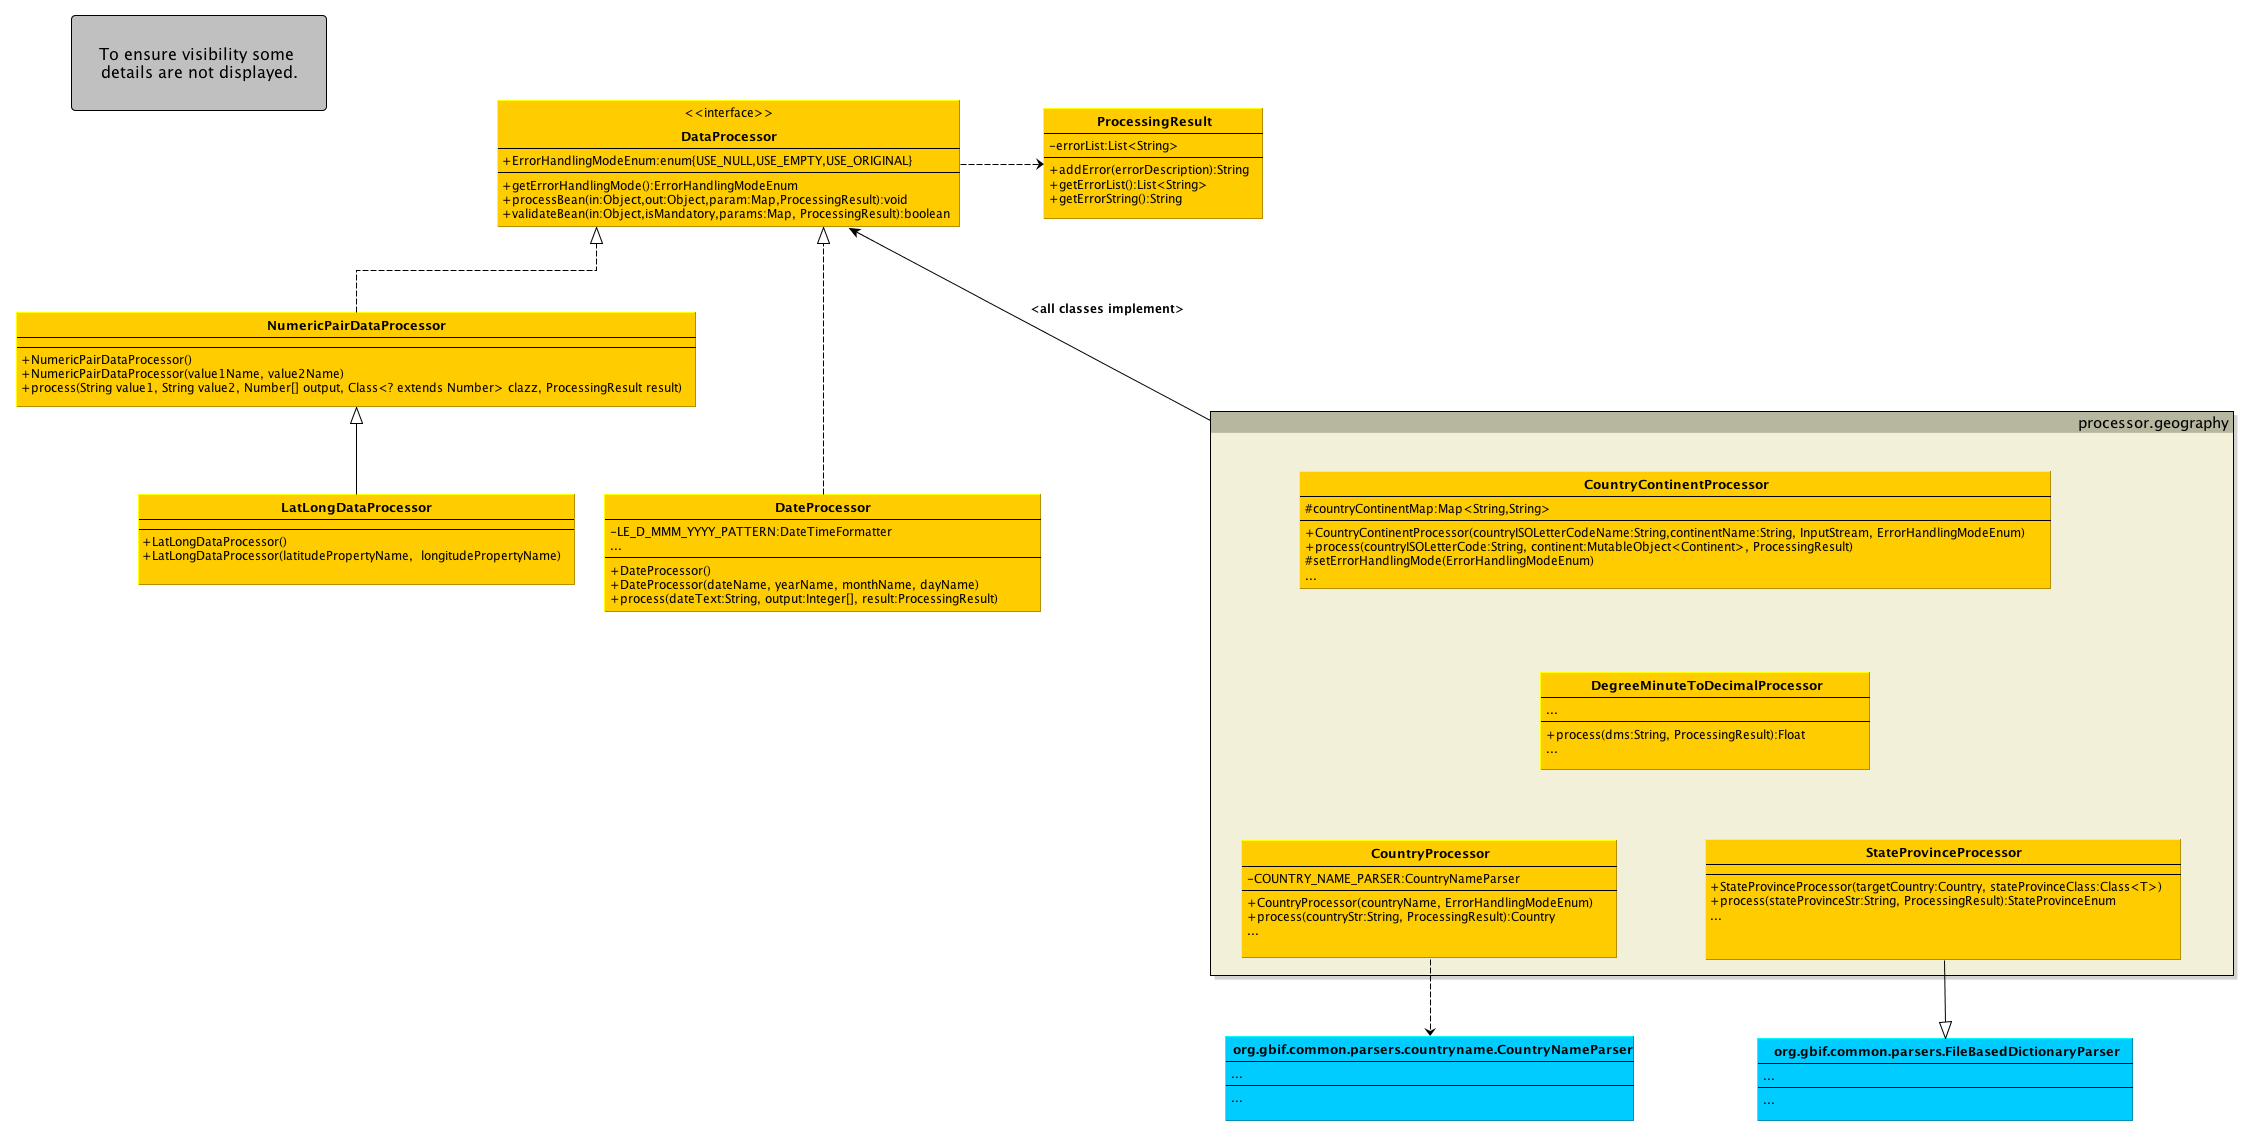
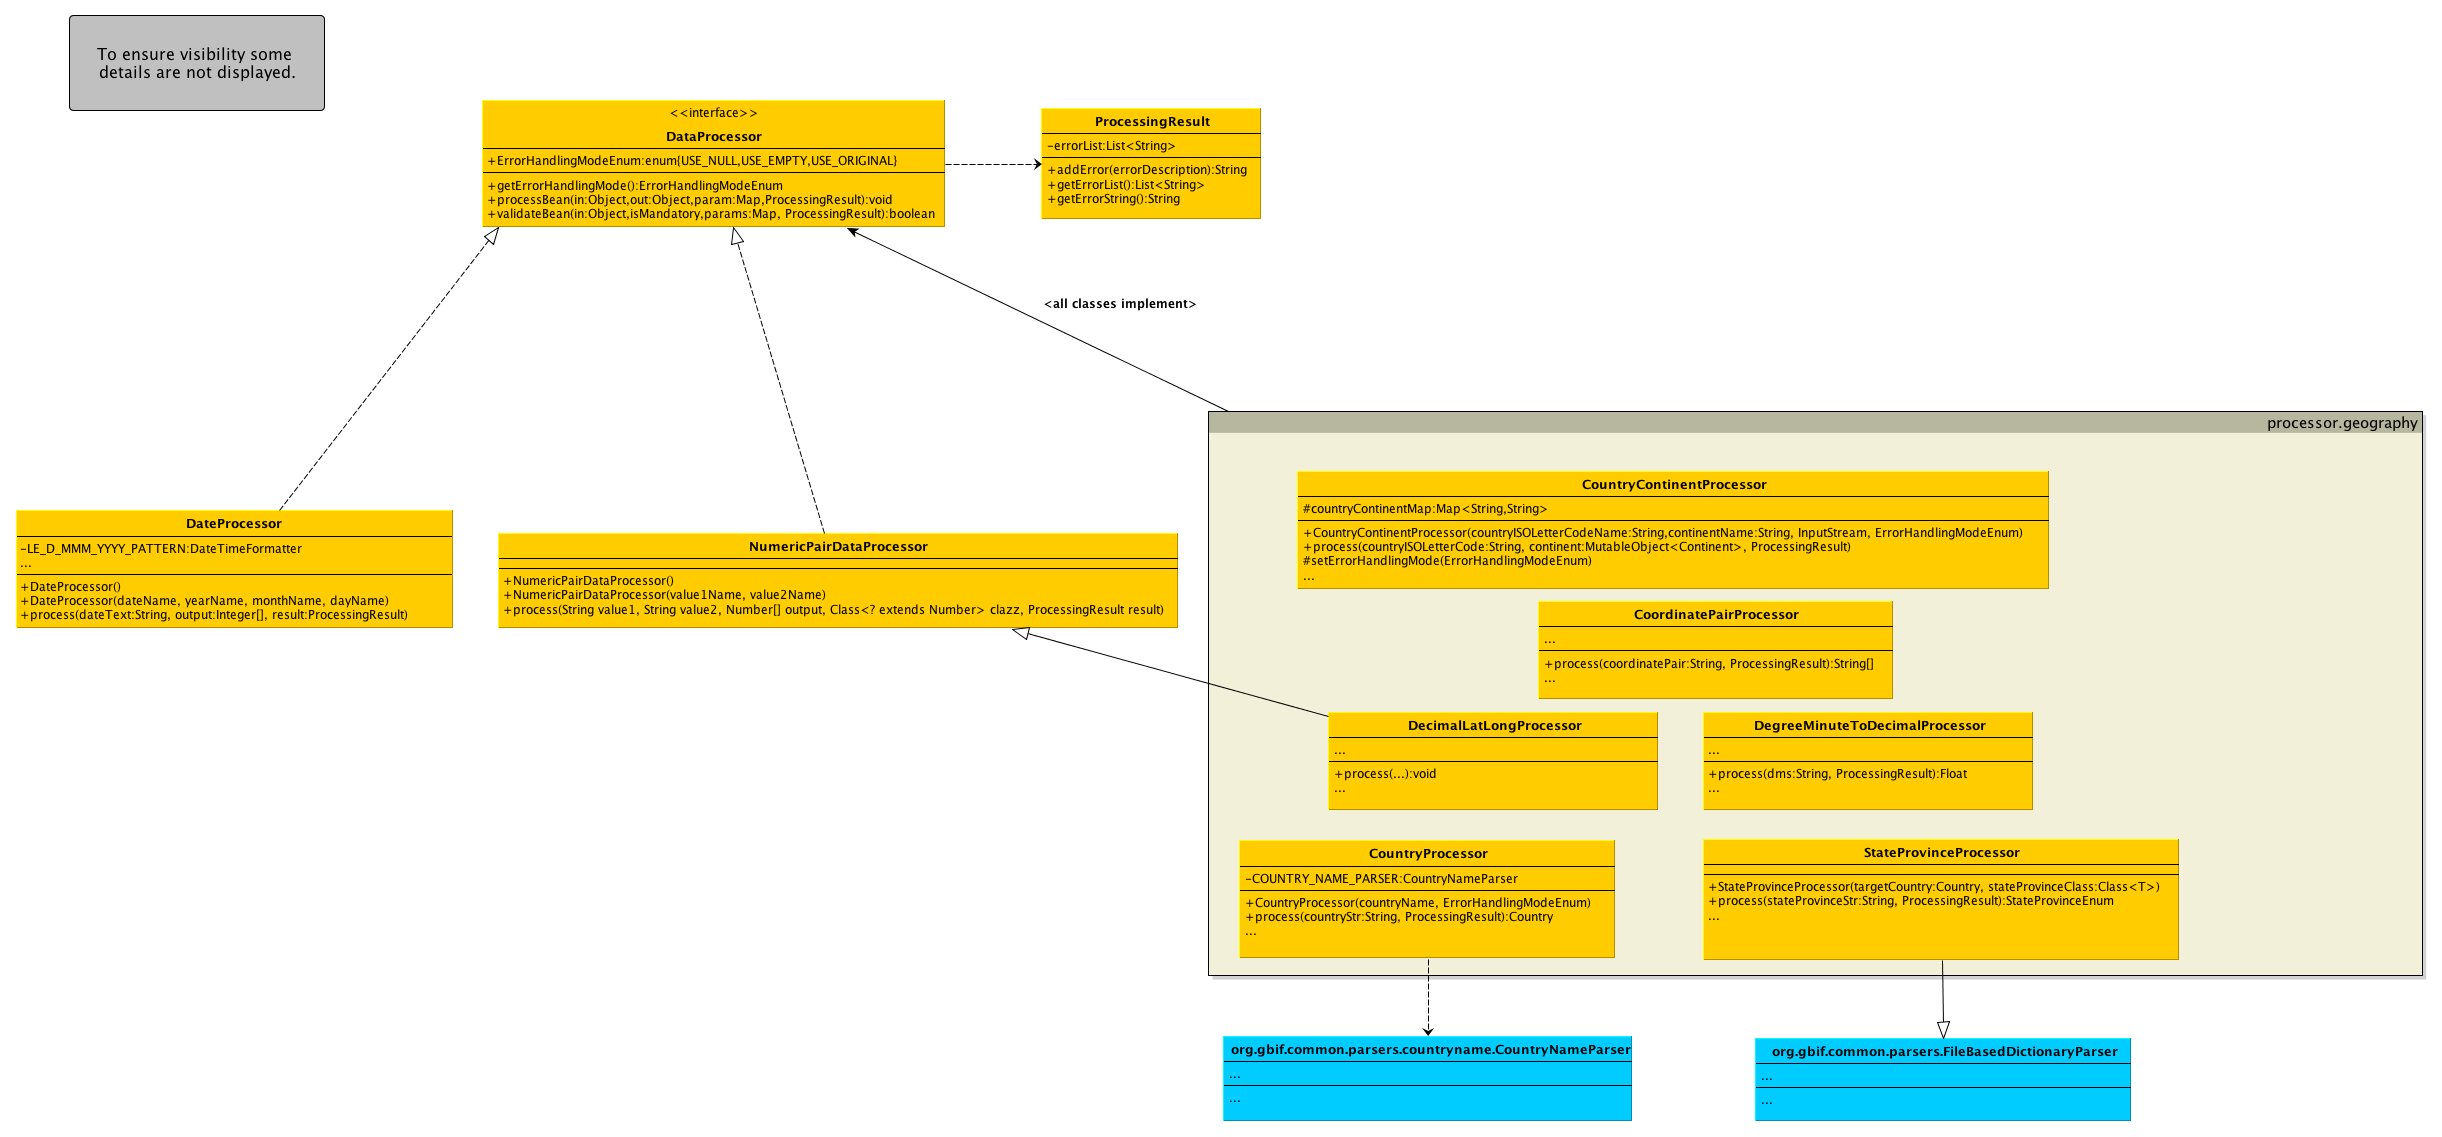
renamed LatLongDataProcessor to DecimalLatLongProcessor

diff --git a/src/test/java/net/canadensys/processor/dwc/DecimalLatLongProcessorTest.java b/src/test/java/net/canadensys/processor/dwc/DecimalLatLongProcessorTest.java
@@ -5,15 +5,16 @@ import static org.junit.Assert.assertNull;
 import net.canadensys.processor.ProcessingResult;
 import net.canadensys.processor.dwc.mock.MockOccurrenceModel;
 import net.canadensys.processor.dwc.mock.MockRawOccurrenceModel;
+import net.canadensys.processor.geography.DecimalLatLongProcessor;
 
 import org.junit.Test;
 
 /**
- * Test for the LatLongDataProcessor
+ * Test for the DecimalLatLongProcessor
  * @author canadensys
  *
  */
-public class LatLongDataProcessorTest {
+public class DecimalLatLongProcessorTest {
 
 	@Test
 	public void testProcessing(){		
@@ -23,7 +24,7 @@ public class LatLongDataProcessorTest {
 		mockRawModel.setDecimalLatitude("45.8º");
 		mockRawModel.setDecimalLongitude("100.4765 degree");
 		
-		NumericPairDataProcessor processor = new LatLongDataProcessor();
+		NumericPairDataProcessor processor = new DecimalLatLongProcessor();
 		processor.processBean(mockRawModel, mockModel, null, null);
 		
 		assertEquals(45.8, mockModel.getDecimalLatitude(),0);
@@ -39,7 +40,7 @@ public class LatLongDataProcessorTest {
 		mockRawModel.setDecimalLongitude("degree");
 		
 		ProcessingResult result = new ProcessingResult();
-		NumericPairDataProcessor processor = new LatLongDataProcessor();
+		NumericPairDataProcessor processor = new DecimalLatLongProcessor();
 		processor.processBean(mockRawModel, mockModel, null, result);
 		
 		assertNull(mockModel.getDecimalLatitude());

diff --git a/src/main/java/net/canadensys/processor/geography/DecimalLatLongProcessor.java b/src/main/java/net/canadensys/processor/geography/DecimalLatLongProcessor.java
@@ -1,6 +1,7 @@
-package net.canadensys.processor.dwc;
+package net.canadensys.processor.geography;
 
 import net.canadensys.processor.ProcessingResult;
+import net.canadensys.processor.dwc.NumericPairDataProcessor;
 
 /**
  * Data processor to handle latitude and longitude data.
@@ -8,7 +9,7 @@ import net.canadensys.processor.ProcessingResult;
  * @author canadensys
  *
  */
-public class LatLongDataProcessor extends NumericPairDataProcessor{
+public class DecimalLatLongProcessor extends NumericPairDataProcessor{
 	
 	//decimalLatitude : Legal values lie between -90 and 90, inclusive.
 	public static final int MIN_LATITUDE = -90;
@@ -25,11 +26,11 @@ public class LatLongDataProcessor extends NumericPairDataProcessor{
 	/**
 	 * Default constructor, property name will be assigned to the matching DarwinCore property name.
 	 */
-	public LatLongDataProcessor() {
+	public DecimalLatLongProcessor() {
 		super(DWC_DECIMAL_LATITUDE, DWC_DECIMAL_LONGITUDE);
 	}
 	
-	public LatLongDataProcessor(String latitudePropertyName, String longitudePropertyName) {
+	public DecimalLatLongProcessor(String latitudePropertyName, String longitudePropertyName) {
 		super(latitudePropertyName, longitudePropertyName);
 	}
 	

diff --git a/src/test/java/net/canadensys/processor/geography/CoordinatePairProcessorTest.java b/src/test/java/net/canadensys/processor/geography/CoordinatePairProcessorTest.java
@@ -16,7 +16,7 @@ import org.junit.Test;
  *
  */
 public class CoordinatePairProcessorTest {
-	
+		
 	@Test
 	public void testCoordinatePairProcessor(){
 		CoordinatePairProcessor cpProcessor = new CoordinatePairProcessor();
